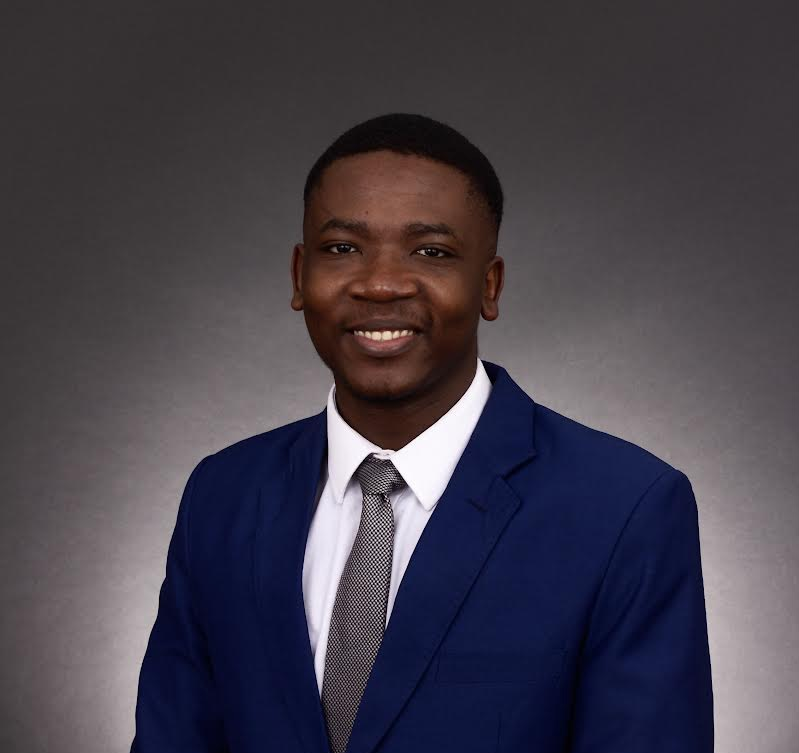
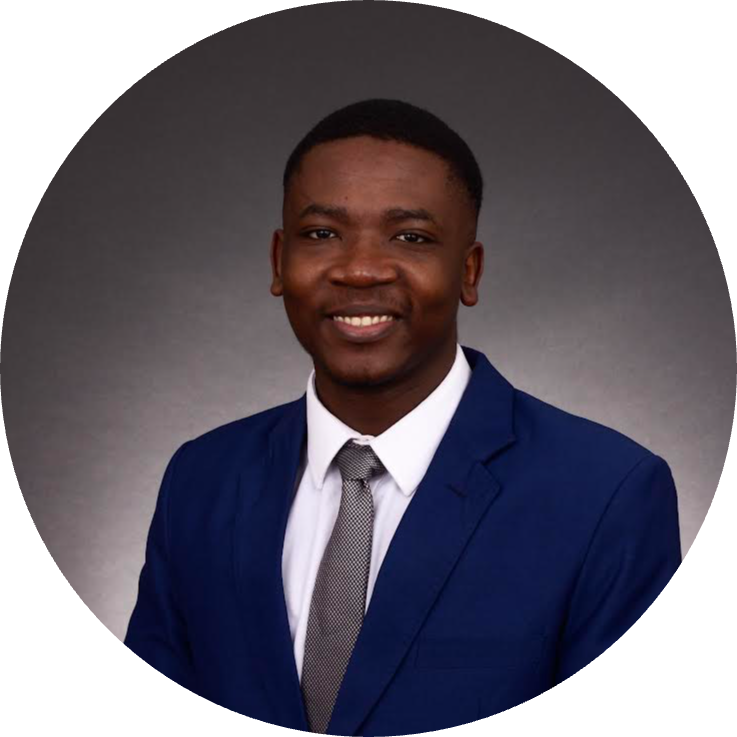
circle

diff --git a/index.html b/index.html
@@ -108,7 +108,7 @@
                 <!-- Masthead Avatar Image-->
                 <img
                     class="masthead-avatar mb-5"
-                    src="Frank-modified.png"
+                    src="lugofr01.png"
                     alt="..."
                 />
                 <!-- Masthead Heading-->
